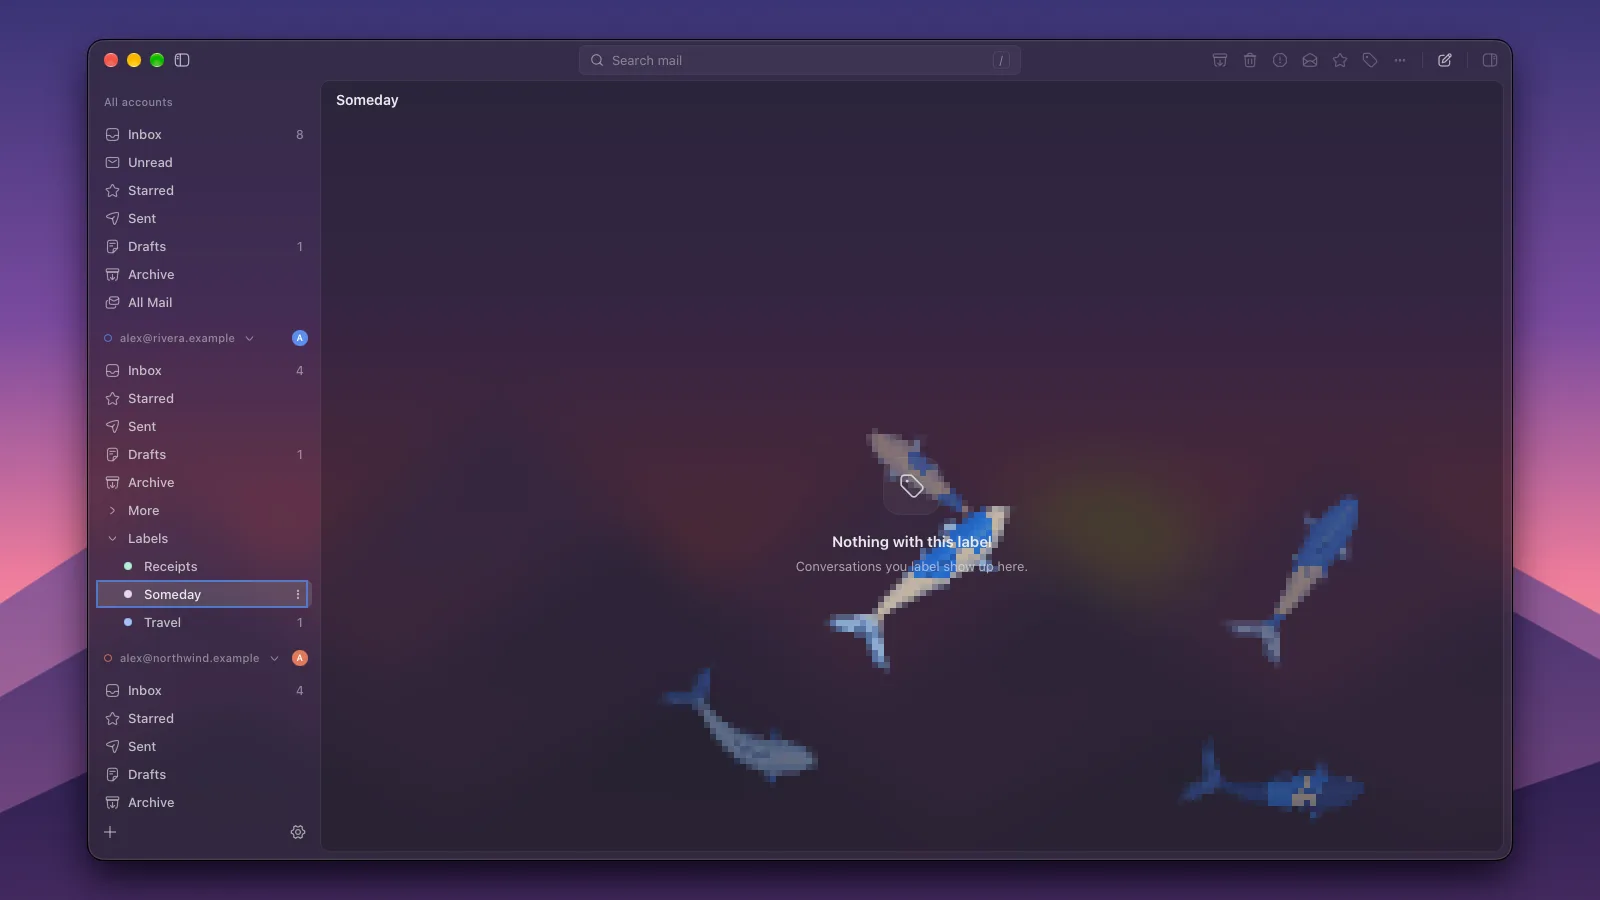
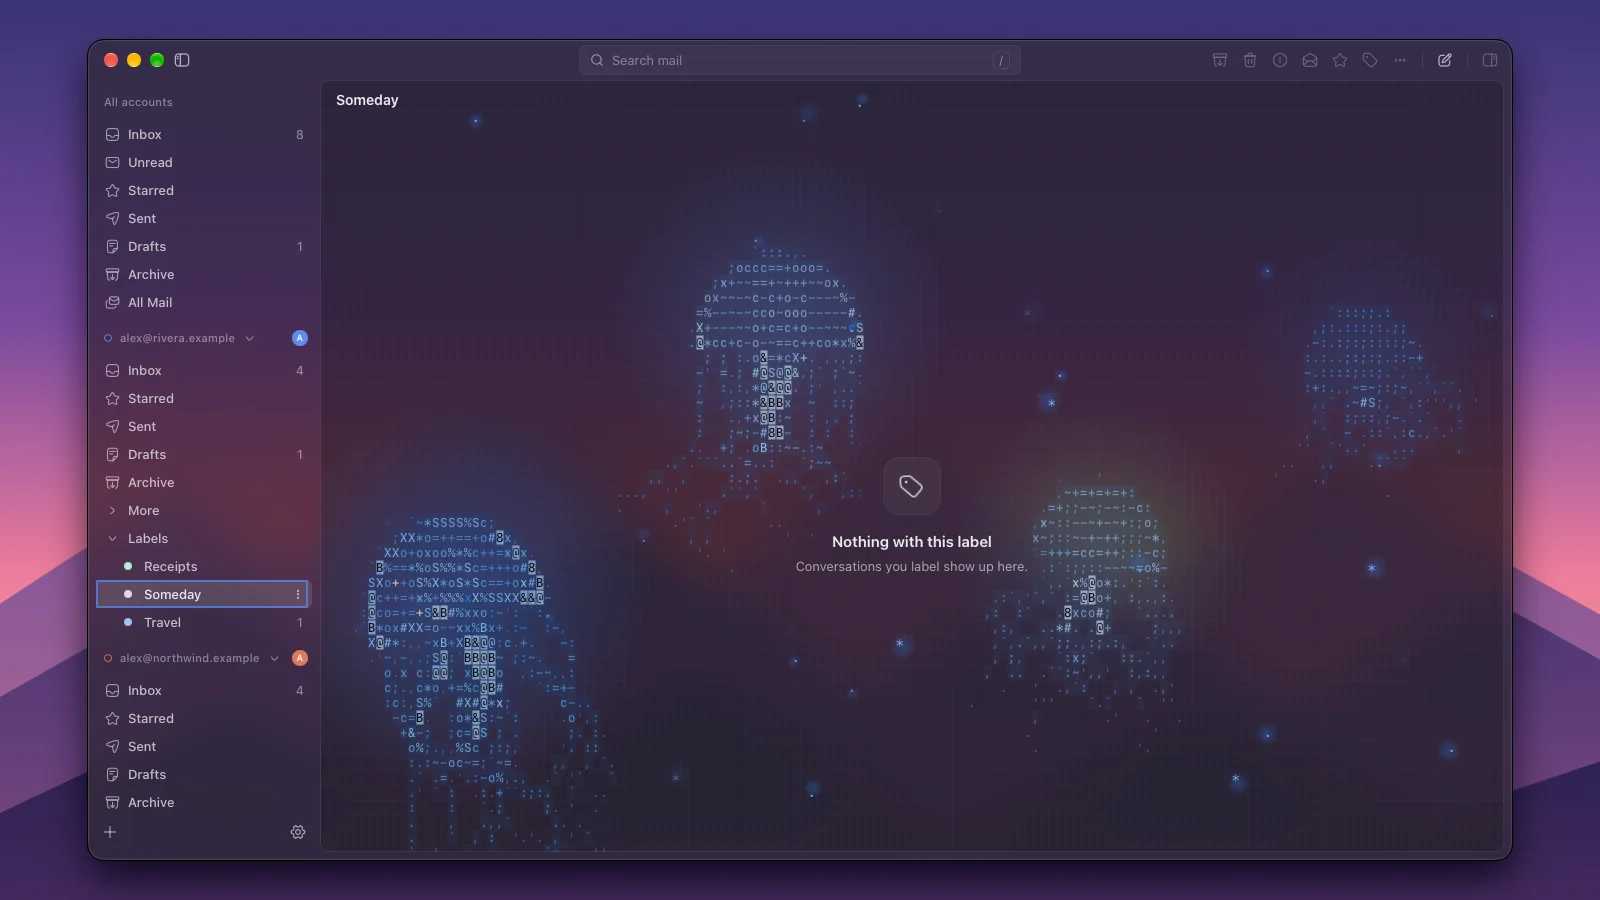
Show the newer features in the README and on the website
The owner agreed to the curation: the README trades its koi tile for the
ASCII jellyfish and its command palette tile for the Privacy page. The
website gains a Label colors card, a Writing and sending group (Send
again, Outside recipients), a Privacy group (the Privacy page and
Notifications) above "Your mail stays yours.", and the ASCII jellyfish
in the Inbox Zero spotlight. build-website-images.sh makes the new cards.

diff --git a/website/index.html b/website/index.html
@@ -177,13 +177,13 @@
       <section class="wrap group">
         <div class="section-head" data-reveal>
           <p class="eyebrow">Your Gmail settings</p>
-          <h2>Rules, signatures and vacation reply, in the app.</h2>
+          <h2>Rules, signatures, labels and vacation reply, in the app.</h2>
           <p>
             These live in your Gmail settings, so they follow you to every device, and rules and the
             vacation reply keep working when Mailboat is closed.
           </p>
         </div>
-        <div class="feature-grid n4">
+        <div class="feature-grid n5">
           <article class="feature" data-reveal="1">
             <picture>
               <source srcset="images/cards/rules-dark.webp" media="(prefers-color-scheme: dark)" />
@@ -271,6 +271,26 @@
               <p>
                 Answer Yes, Maybe or No in the email itself. The answer goes through Google
                 Calendar.
+              </p>
+            </div>
+          </article>
+          <article class="feature" data-reveal="2">
+            <picture>
+              <source srcset="images/cards/labels-dark.webp" media="(prefers-color-scheme: dark)" />
+              <img
+                src="images/cards/labels-light.webp"
+                data-zoom="images/full/labels"
+                width="800"
+                height="450"
+                loading="lazy"
+                alt="A label's menu with its color grid open, over an inbox whose rows show their labels"
+              />
+            </picture>
+            <div class="feature-text">
+              <h3>Label colors</h3>
+              <p>
+                Gmail's label colors, set from a label's menu in the sidebar, along with whether it
+                shows in the sidebar and on conversations. Rows show their labels after the subject.
               </p>
             </div>
           </article>
@@ -457,6 +477,61 @@
 
       <section class="wrap group">
         <div class="section-head" data-reveal>
+          <p class="eyebrow">Writing and sending</p>
+          <h2>Send it again, and see who's outside.</h2>
+        </div>
+        <div class="feature-grid n2">
+          <article class="feature" data-reveal="1">
+            <picture>
+              <source
+                srcset="images/cards/send-again-dark.webp"
+                media="(prefers-color-scheme: dark)"
+              />
+              <img
+                src="images/cards/send-again-light.webp"
+                data-zoom="images/full/send-again"
+                width="800"
+                height="450"
+                loading="lazy"
+                alt="A copy of a sent invoice in a new message, with a note that it includes the file from the original"
+              />
+            </picture>
+            <div class="feature-text">
+              <h3>Send again</h3>
+              <p>
+                Opens an email you sent as a new message, to the same people, with its subject, text
+                and files, ready to change.
+              </p>
+            </div>
+          </article>
+          <article class="feature" data-reveal="2">
+            <picture>
+              <source
+                srcset="images/cards/outside-dark.webp"
+                media="(prefers-color-scheme: dark)"
+              />
+              <img
+                src="images/cards/outside-light.webp"
+                data-zoom="images/full/outside"
+                width="800"
+                height="450"
+                loading="lazy"
+                alt="A reply all with a recipient on Cc marked as outside the organization"
+              />
+            </picture>
+            <div class="feature-text">
+              <h3>Outside recipients</h3>
+              <p>
+                On a Google Workspace account, as in Gmail, a recipient outside your organization is
+                marked as you write, with a note above the message.
+              </p>
+            </div>
+          </article>
+        </div>
+      </section>
+
+      <section class="wrap group">
+        <div class="section-head" data-reveal>
           <p class="eyebrow">Fast, and yours</p>
           <h2>Shortcuts, swipes and settings.</h2>
         </div>
@@ -582,11 +657,12 @@
         </div>
         <div class="row flip">
           <div class="copy" data-reveal>
-            <p class="eyebrow">A koi pond</p>
+            <p class="eyebrow">ASCII jellyfish</p>
             <h2>An empty view is a place to play.</h2>
             <p>
               Pick a toy, and after a minute without input a screensaver scene plays over the empty
-              view. There are eleven scenes in six color schemes, or a random one.
+              view. There are eleven scenes in six color schemes, or a random one, drawn in pixel
+              art or ASCII art.
             </p>
           </div>
           <div class="media" data-reveal="2">
@@ -599,7 +675,7 @@
                 width="1600"
                 height="900"
                 loading="lazy"
-                alt="A pixel-art koi pond swimming over an empty view"
+                alt="Jellyfish drawn in ASCII characters drifting over an empty view"
               />
             </picture>
           </div>
@@ -646,6 +722,61 @@
               <p>
                 Pick one scene or a random one, and a color scheme: mono, accent, ocean, desert,
                 dusk or forest.
+              </p>
+            </div>
+          </article>
+        </div>
+      </section>
+
+      <section class="wrap group">
+        <div class="section-head" data-reveal>
+          <p class="eyebrow">Privacy</p>
+          <h2>What leaves your computer, on one page.</h2>
+        </div>
+        <div class="feature-grid n2">
+          <article class="feature" data-reveal="1">
+            <picture>
+              <source
+                srcset="images/cards/privacy-dark.webp"
+                media="(prefers-color-scheme: dark)"
+              />
+              <img
+                src="images/cards/privacy-light.webp"
+                data-zoom="images/full/privacy"
+                width="800"
+                height="450"
+                loading="lazy"
+                alt="Settings, Privacy: each thing that leaves the computer, what is sent and when, with a button to the setting that decides it"
+              />
+            </picture>
+            <div class="feature-text">
+              <h3>Privacy page</h3>
+              <p>
+                Each thing that leaves the computer, what is sent and when, and a button to the
+                setting that decides it. Below that, what stays on the computer.
+              </p>
+            </div>
+          </article>
+          <article class="feature" data-reveal="2">
+            <picture>
+              <source
+                srcset="images/cards/notifications-dark.webp"
+                media="(prefers-color-scheme: dark)"
+              />
+              <img
+                src="images/cards/notifications-light.webp"
+                data-zoom="images/full/notifications"
+                width="800"
+                height="450"
+                loading="lazy"
+                alt="Settings, Notifications: show everything, the sender only, or just New email"
+              />
+            </picture>
+            <div class="feature-text">
+              <h3>Notifications</h3>
+              <p>
+                New-mail notifications can show everything, the sender only, or just "New email",
+                since anyone at the computer can read the system's list of them.
               </p>
             </div>
           </article>

diff --git a/README.md b/README.md
@@ -89,10 +89,10 @@ which has since shut down.
     </td>
     <td width="50%" valign="top">
       <picture>
-        <source media="(prefers-color-scheme: dark)" srcset="docs/images/features/screensaver-dark.png">
-        <img src="docs/images/features/screensaver-light.png" alt="A pixel-art koi pond swimming over an empty view">
+        <source media="(prefers-color-scheme: dark)" srcset="docs/images/features/screensaver-ascii-dark.png">
+        <img src="docs/images/features/screensaver-ascii-light.png" alt="Jellyfish drawn in ASCII characters drifting over an empty view">
       </picture>
-      <br><sub><b>Inbox Zero</b> has toys: a glow, a pond, bubble wrap, a sky, and eleven screensavers.</sub>
+      <br><sub><b>Inbox Zero</b> has toys: a glow, a pond, bubble wrap, a sky, and eleven screensavers, in pixel art or ASCII art.</sub>
     </td>
   </tr>
   <tr>
@@ -105,10 +105,10 @@ which has since shut down.
     </td>
     <td width="50%" valign="top">
       <picture>
-        <source media="(prefers-color-scheme: dark)" srcset="docs/images/features/palette-dark.png">
-        <img src="docs/images/features/palette-light.png" alt="The command palette over a conversation, listing actions with their shortcuts">
+        <source media="(prefers-color-scheme: dark)" srcset="docs/images/features/privacy-dark.png">
+        <img src="docs/images/features/privacy-light.png" alt="Settings, Privacy: each thing that leaves the computer, what is sent and when, with a button to the setting that decides it">
       </picture>
-      <br><sub><b>⌘K</b>: every action, with its shortcut.</sub>
+      <br><sub><b>Privacy</b>: everything that leaves your computer, on one page, with the setting behind each.</sub>
     </td>
   </tr>
 </table>

diff --git a/docs/ROADMAP.md b/docs/ROADMAP.md
@@ -6206,8 +6206,14 @@ built, the owner has tried it, and the owner has published 0.3.0
       that show in pictures got written summaries: asked live, the
       on-device model once wrote a made-up code into a row, and twice its
       own field names)*
-- [ ] Choose which features the README and the website show, now that
+- [x] Choose which features the README and the website show, now that
       there are new ones *(owner, 2026-11-21; the owner decides)*
+      *(2026-11-21, owner agreed: the README's koi tile becomes the ASCII
+      jellyfish and its ⌘K tile the Privacy page. The website gains a
+      Label colors card, a Writing and sending group (Send again, Outside
+      recipients), a Privacy group (Privacy page, Notifications) above
+      "Your mail stays yours.", and the ASCII jellyfish in the Inbox Zero
+      spotlight)*
 - [x] Label color and visibility. Gmail keeps a label's `color`,
       `labelListVisibility` and `messageListVisibility`; the app only
       renamed (`rename_label` sends `name`). Pick a label's color from
